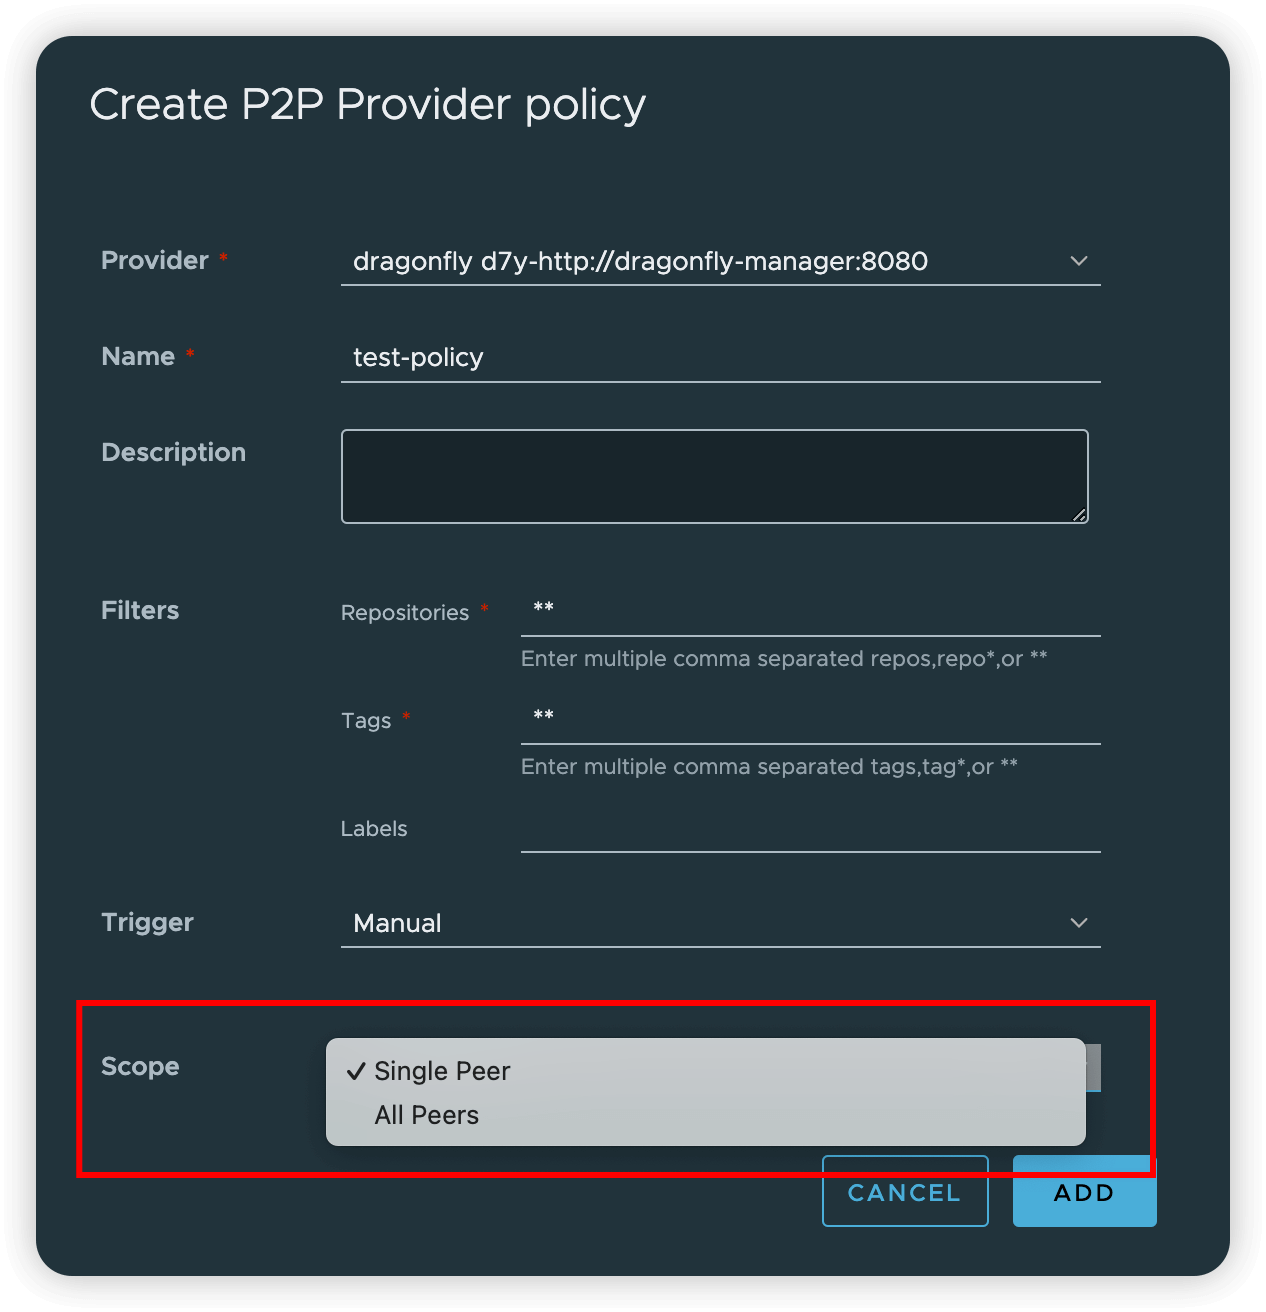
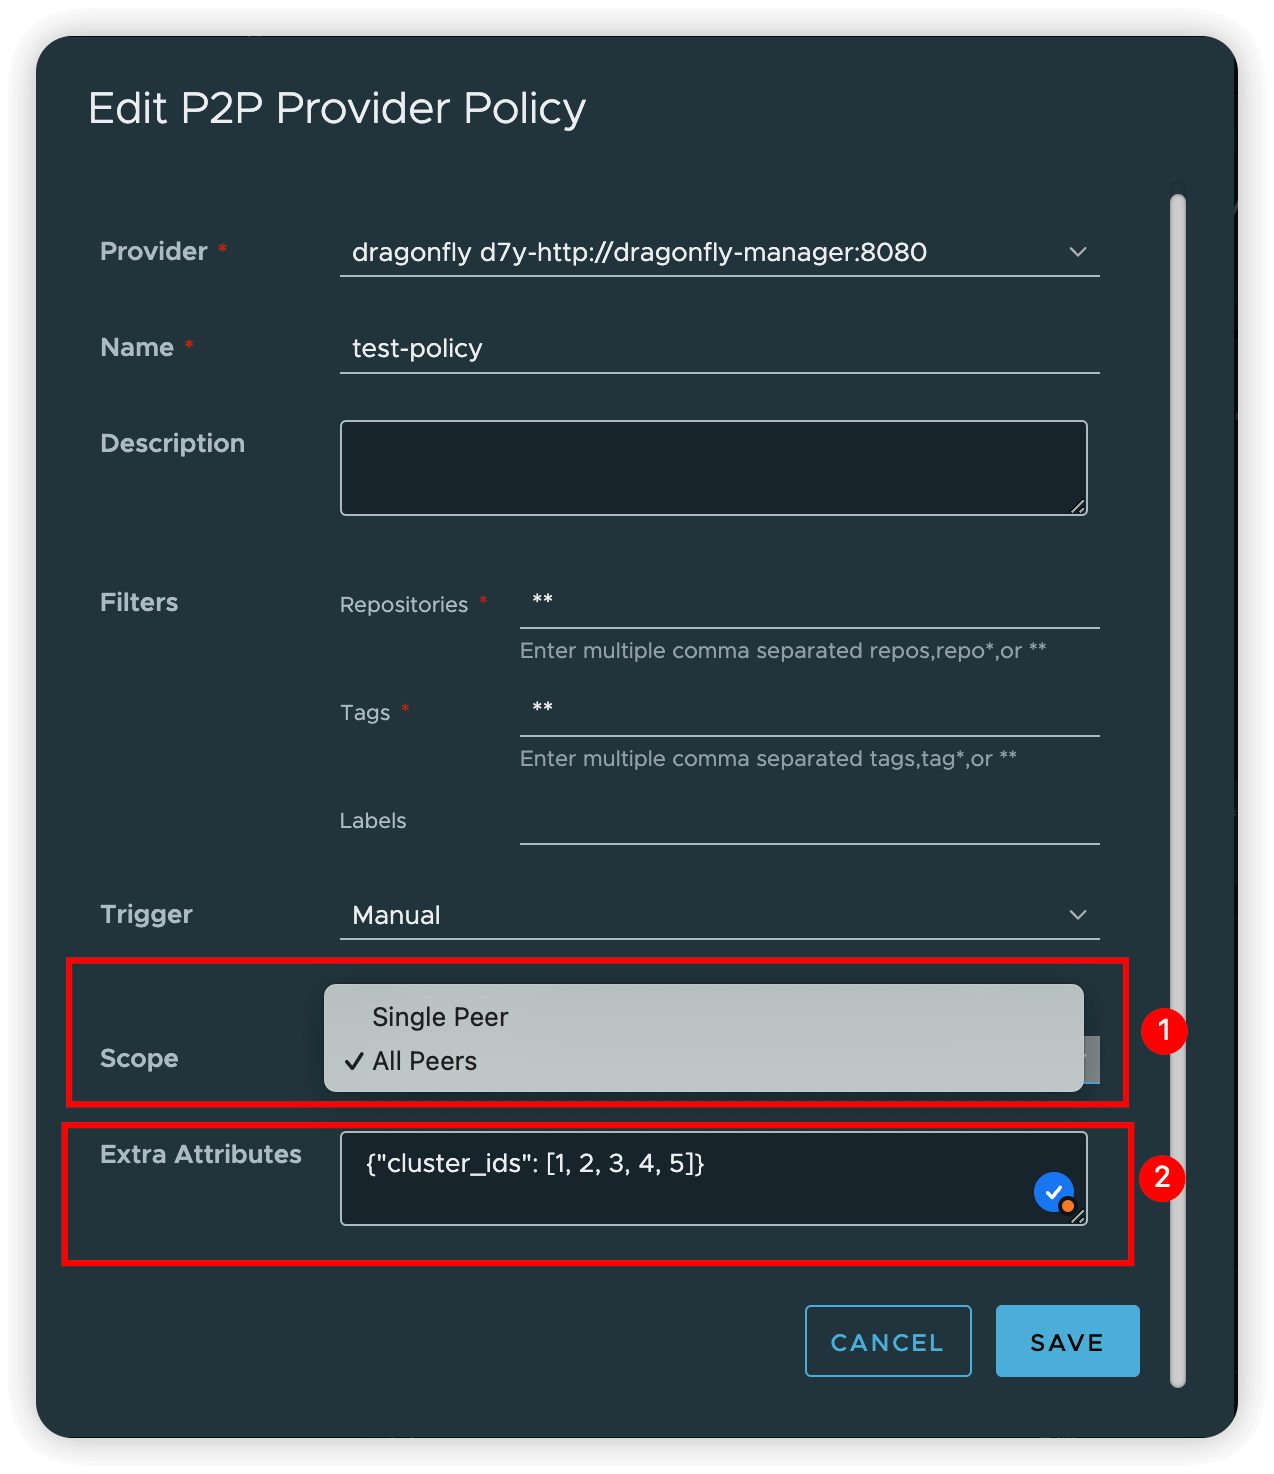
docs: change harbor document

diff --git a/docs/advanced-guides/preheat.md b/docs/advanced-guides/preheat.md
@@ -36,6 +36,8 @@ Use Open API for preheating image. First create a POST request for preheating.
 If the `scheduler_cluster_ids` does not exist,
 it means to preheat all scheduler clusters.
 
+> Notice: The scope parameter selects `single_peer` (Preheat to a seed peer) or `all_peers` (Preheat to each peer in the P2P cluster).
+
 ```bash
 curl --location --request POST 'http://dragonfly-manager:8080/oapi/v1/jobs' \
 --header 'Content-Type: application/json' \
@@ -47,7 +49,8 @@ curl --location --request POST 'http://dragonfly-manager:8080/oapi/v1/jobs' \
         "url": "https://index.docker.io/v2/library/alpine/manifests/3.19",
         "filteredQueryParams": "Expires&Signature",
         "username": "your_registry_username",
-        "password": "your_registry_password"
+        "password": "your_registry_password",
+        "scope": "single_peer" or "all_peers"
     }
 }'
 ```
@@ -359,6 +362,8 @@ Click the `NEW POLICY` button to create P2P provider policy.
 - **Single Peer**: Preheat to a seed peer.
 
 - **All Peers**: Preheat to each peer in the P2P cluster.
+
+**Step 4:** Enter the cluster id of Dragonfly Manager to specify the preheated cluster. If empty, all clusters will be selected.
 
 ![create-policy](../resource/advanced-guides/preheat/create-policy.png)
 

diff --git a/docs/operations/integrations/harbor.md b/docs/operations/integrations/harbor.md
@@ -9,4 +9,4 @@ This document will help you experience how to use dragonfly with harbor.
 ## P2P Preheat {#p2p-preheat}
 
 Dragonfly 2.0 is compatible with dragonfly 1.0 integrated harbor preheat interface.
-Harbor preheat feature integrates dragonfly, please refer to [harbor-preheat](../../advanced-guides/preheat.md#preheat).
+Harbor preheat feature integrates dragonfly, please refer to [harbor-preheat](../../advanced-guides/preheat.md#harbor).
